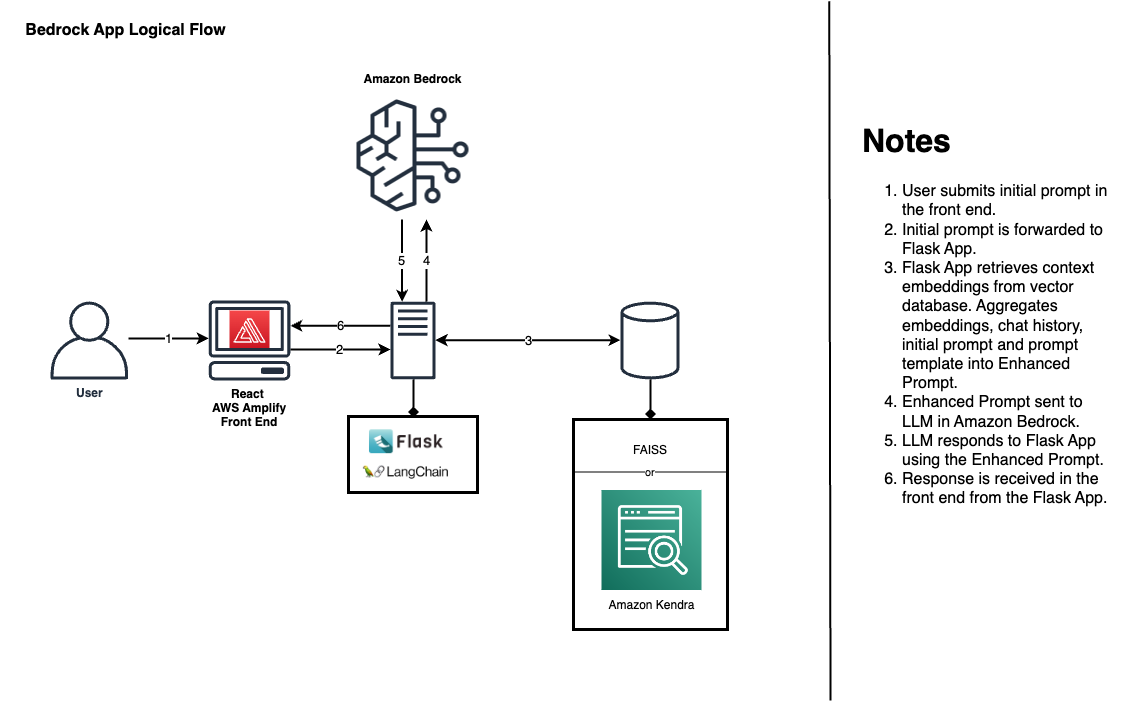
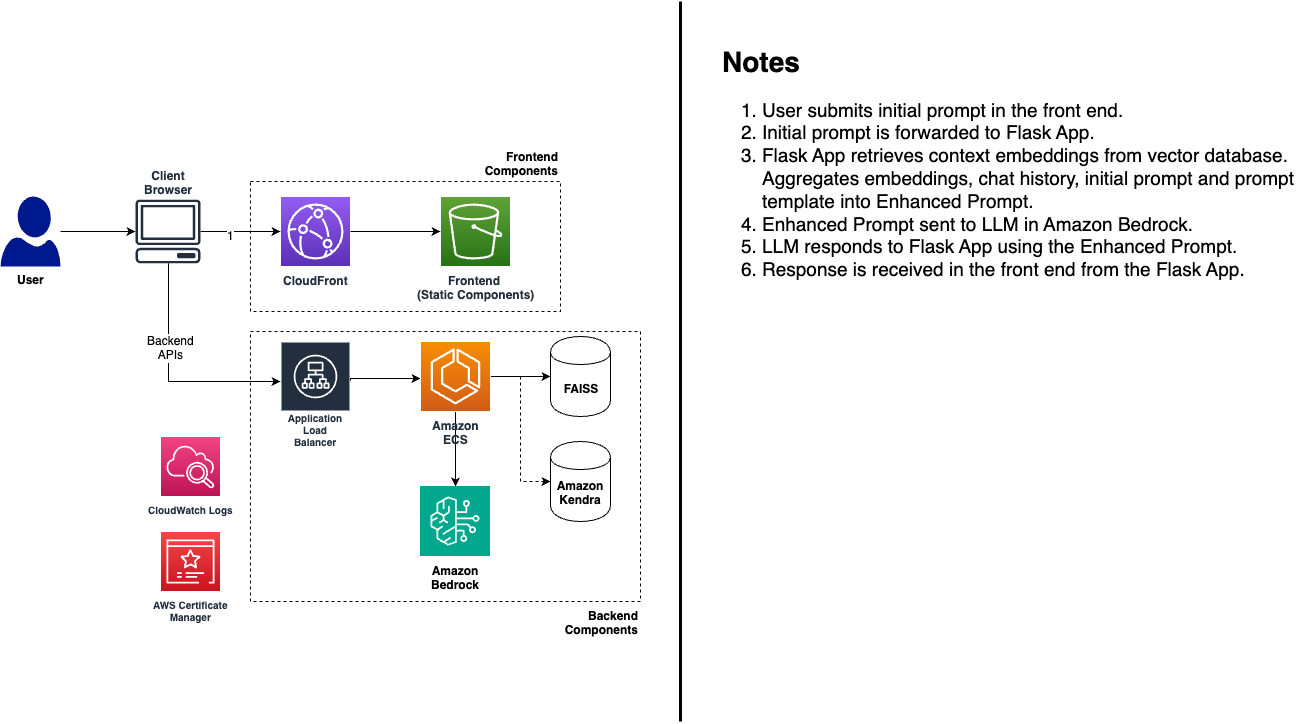
README changes

diff --git a/README.md b/README.md
@@ -15,95 +15,36 @@ The only cost-generating AWS service this solution uses is Amazon Bedrock.
 
 ![Bedrock Demo FrontEnd](bedrock_demo_mov.gif)
 
+Here's the revised markdown without using ``` code blocks:
 
 ## Prerequisites
 
-You'll need to install all prerequisites on your local operating machine.
+1. [AWS CDK](https://docs.aws.amazon.com/cdk/latest/guide/getting_started.html)
+2. [Node.js & npm](https://docs.npmjs.com/downloading-and-installing-node-js-and-npm)
+3. [Python 3.8 or higher](https://www.python.org/downloads/macos/)
+4. AWS CLI configured with appropriate permissions
 
-    
-For the Flask backend, you'll need to have:
-1. [Python 3.8 or higher](https://www.python.org/downloads/macos/)
-2. Set up the SDK for Python (Boto3) and AWS CLI
-    - Boto3 & Botocore: `pip3 install ./backend/flask/boto3-1.26.162-py3-none-any.whl ./backend/flask/botocore-1.29.162-py3-none-any.whl`
-    - AWS CLI: [Instructions Here](https://docs.aws.amazon.com/cli/latest/userguide/getting-started-install.html)
-3. Install the requirements using the requirements file with `pip3 install -r ./backend/flask/requirements.txt`
+## How to Deploy
 
+1. Clone the repository and navigate to the project directory.
 
-For the React frontend, you'll need to install the following:
-1. [Node.js & npm](https://docs.npmjs.com/downloading-and-installing-node-js-and-npm)
-2. Install the NPM dependencies with `npm install`
+2. Install the Python dependencies for the CDK Deployment:
 
+  ```
+  pip install -r infra/requirements.txt
+  ```
 
+3. Deploy the Backend CDK stack:
 
-## IAM Permission
+   cdk deploy *Backend* -c parent_domain=example.com
 
-Your flask backend will need permissions to call the Bedrock API. More specifically, it should have least privileged access to Invoke foundational models in Bedrock. To do this, you'll need to create an IAM user with the appropriate permissions, then generate access keys (cli credentials). Complete documentation of Bedrock IAM Reference configurations [found here.](https://docs.aws.amazon.com/service-authorization/latest/reference/list_amazonbedrock.html)
+> Replace example.com with your actual domain name in your Route 53.
 
-1. From the IAM console, perform the following steps:
-2. Select the IAM Group associated with your user.
-3. Click on "Add Permissions" and choose "Create Inline Policies" from the dropdown list.
-4. Create a new inline policy and include the following permissions:
-```
-{
-  "Version": "2012-10-17",
-  "Statement": [
-    {
-      "Effect": "Allow",
-      "Action": "bedrock:InvokeModel",
-      "Resource": "*"
-    }
-  ]
-}
-```
-Please note : When creating this IAM role, follow the best practice of granting [least privileged access.](https://docs.aws.amazon.com/IAM/latest/UserGuide/best-practices.html#grant-least-privilege)
+4. Redeploy the frontend stack to update the proxy URL:
 
-6. Create programmatic access keys/CLI credentials.
-7. Run `aws configure --profile <name_of_profile>'
-7. On line 62 of `backend/flask/app.py`, include the name of your AWS CLI Profile you configured.
-   
+   cdk deploy *Frontend* -c parent_domain=example.com
 
-
-## How to Run
-
-1. In one terminal session, cd into `./backend/flask` and execute `flask run`
-2. In another terminal session, make sure your terminal cursor is anywhere inside of this repository's directory and execute `npm start`. The app will run in development mode and made available at http://localhost:3000/
-
-## Run the Application in Container or Public Address Follow below steps
-
-Step 1:
-
-Create an Amazon ECR repository to store your images.
-
-For example, using the AWS CLI:
-
-Bash
-
-aws ecr create-repository \
-    --repository-name MY_ECR_REPOSITORY \
-    --region MY_AWS_REGION
-
-
-Ensure that you use the same Amazon ECR repository name (represented here by MY_ECR_REPOSITORY) for the ECR_REPOSITORY variable in the workflow below.
-Ensure that you use the same AWS region value for the AWS_REGION (represented here by MY_AWS_REGION) variable in the workflow below.
-
-Step 2:
-
-Create an Amazon ECS task definition, cluster, and service.
-
-For details, follow the Getting started wizard on the Amazon ECS console, or the Getting started guide in the Amazon ECS documentation.
-
-Ensure that you note the names you set for the Amazon ECS service and cluster, and use them for the ECS_SERVICE and ECS_CLUSTER variables in the workflow below.
-
-Step 3:
-
-Once your registry and ECS tasks are created goto the ECS. Select the recently created cluster and navigate to the “Tasks” tab and select an existing task there. Click on the task and it should open task’s configuration. Copy Public IP Address from that task configuration. Goto the “proxy.js” file and paste the copied public IP address as “proxy_url” variable value. 
-
-Step 4:
-Now goto ECR repositories and choose the repository created above. Once you open the repository you should see ECS task’s image there. Choose the latest image and click “View Push Commands” on top right corner. 
-
-In the opened model dialog select each step one by one and run them in the Cloud 9 instances terminal. 
-
-Once all the above command runs proceed to “How to Run” section above. 
+Your application should now be accessible at the frontend URL provided by the CDK output.
 
 ## How to Use
 
